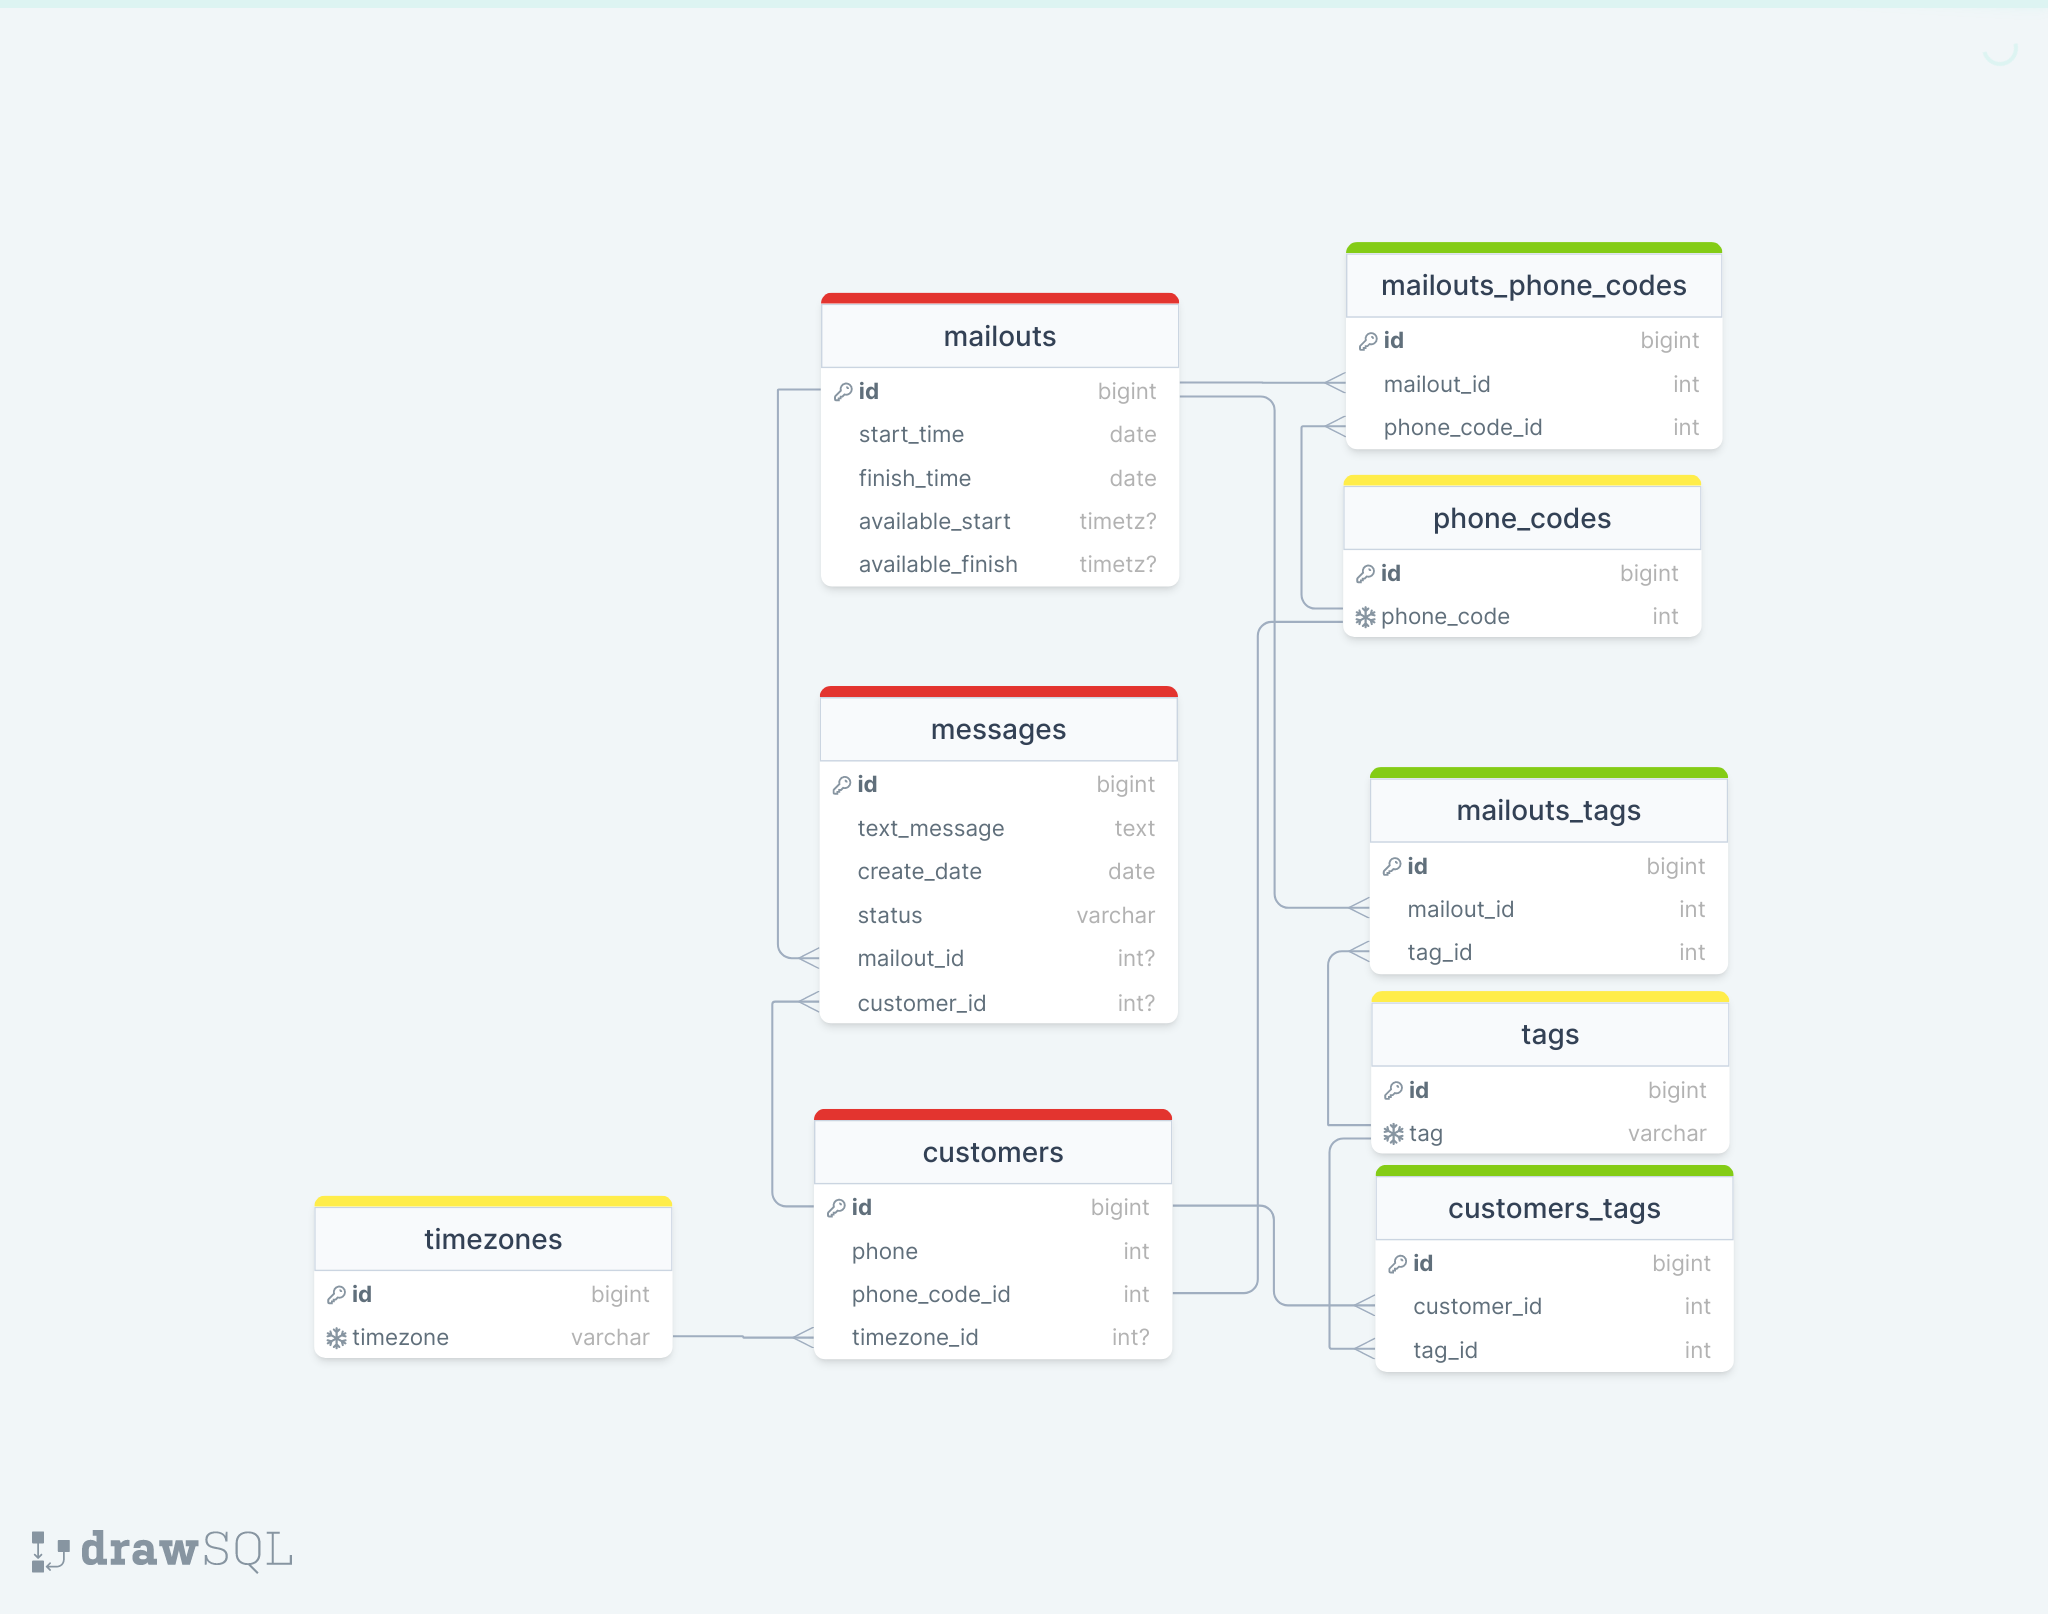
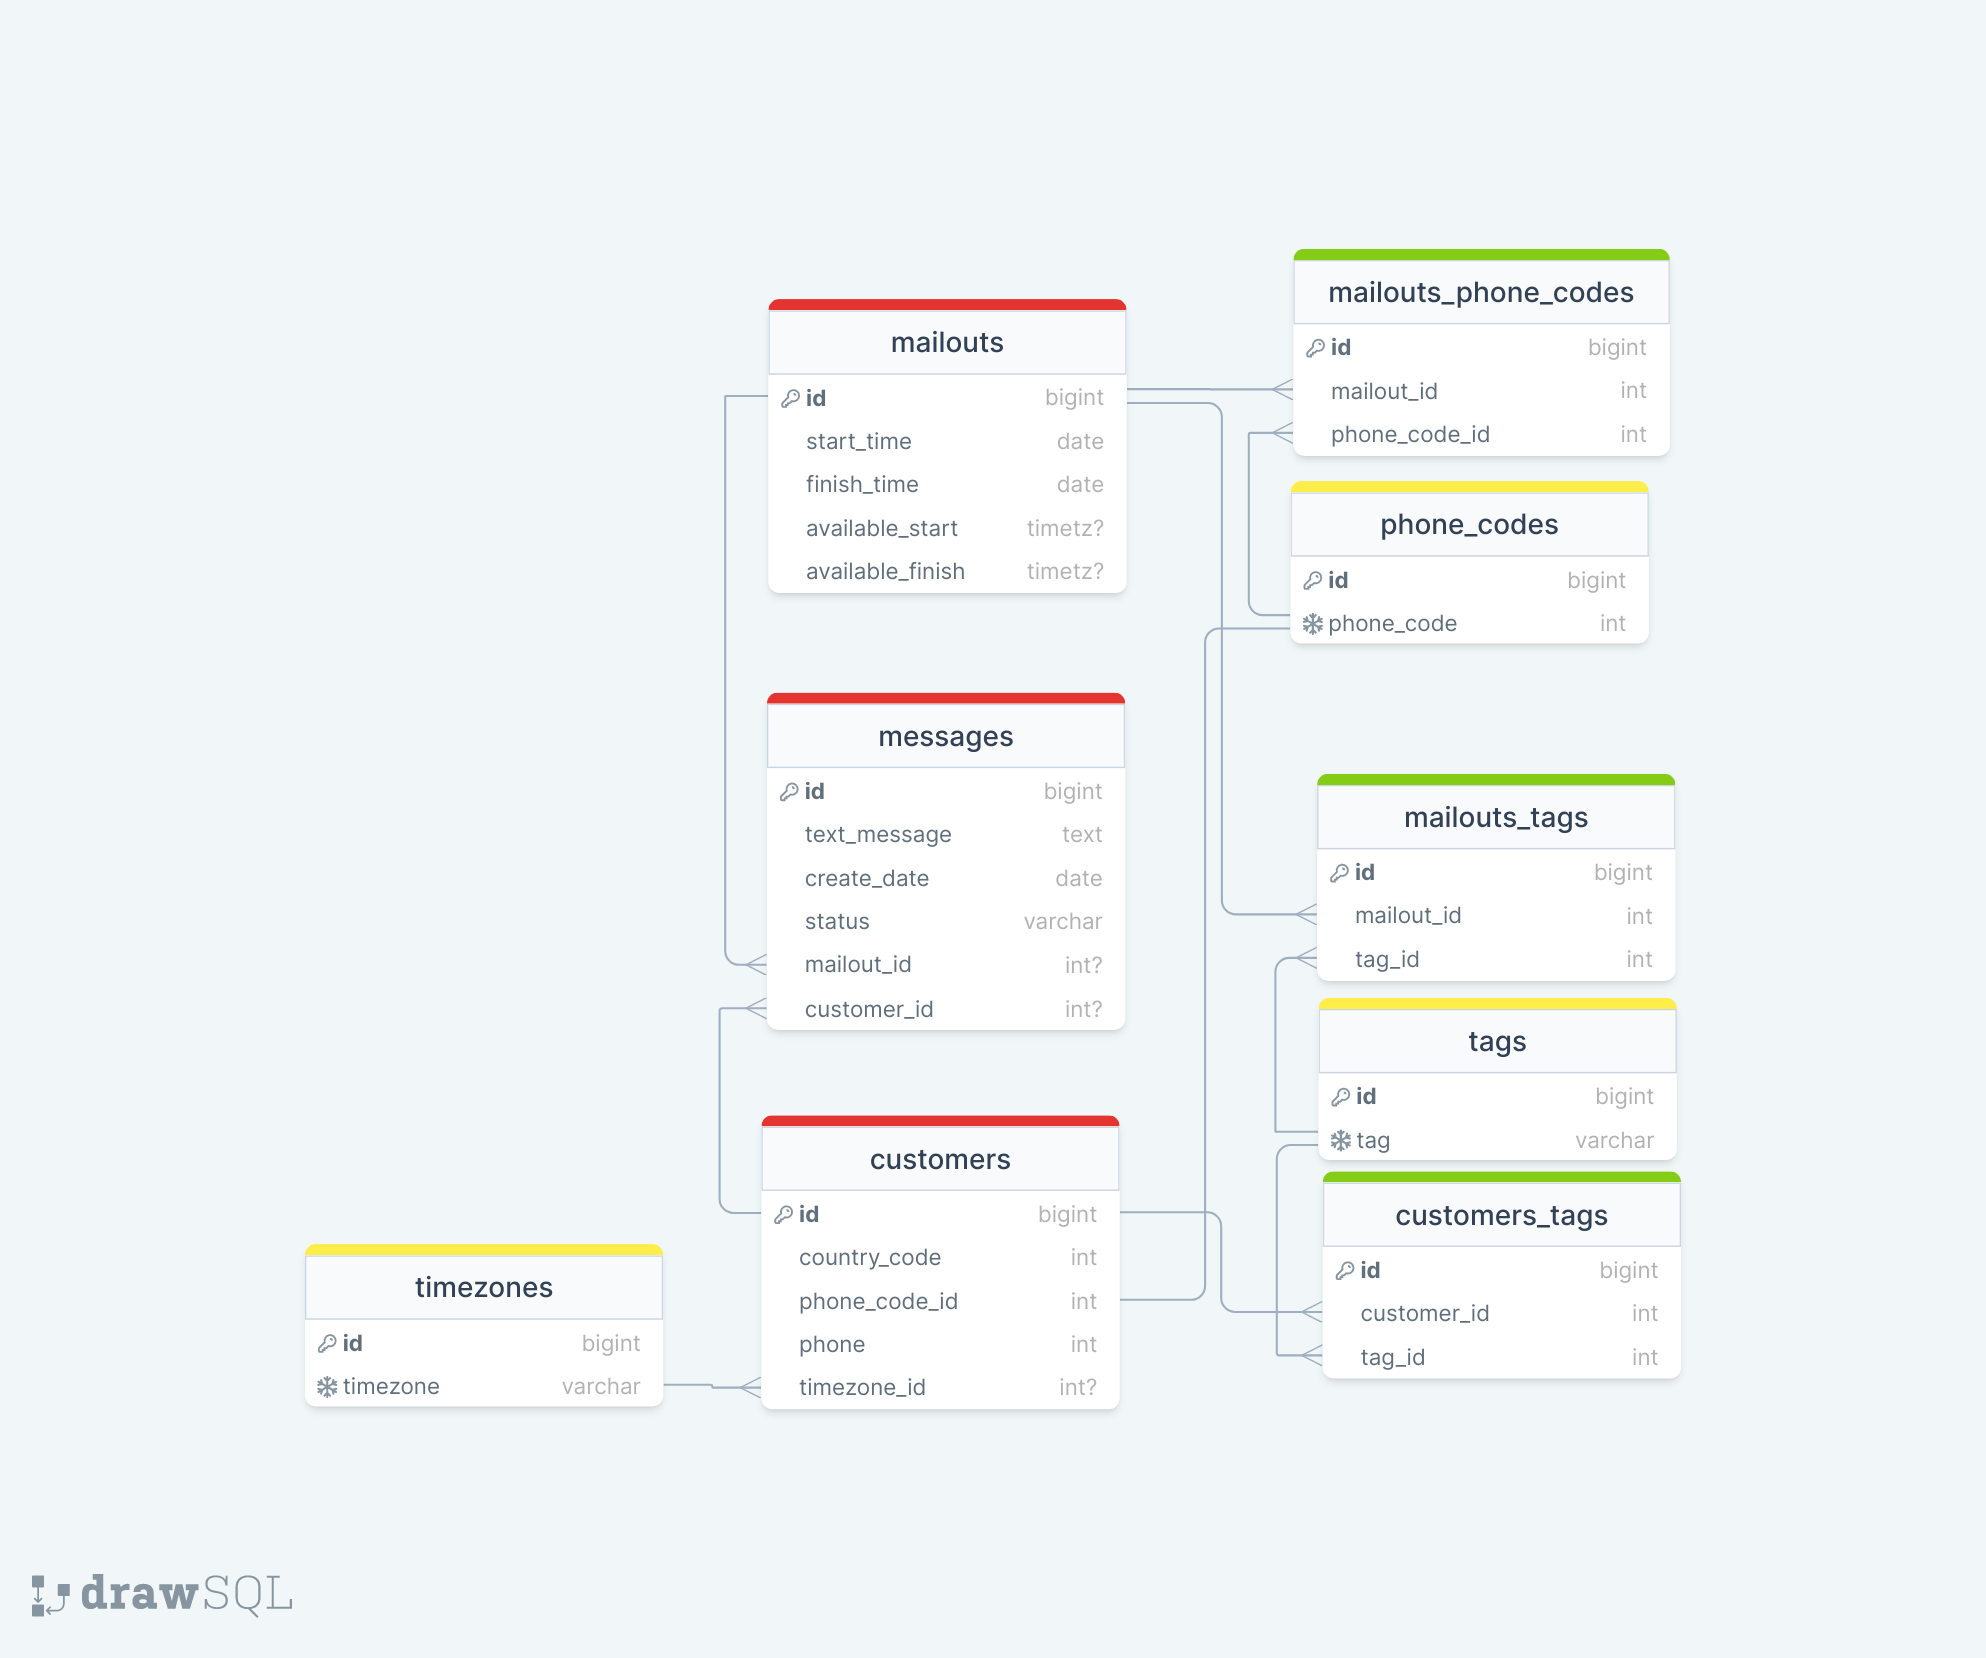
[f] Customer fields

diff --git a/mailing_service/api/main.py b/mailing_service/api/main.py
@@ -20,11 +20,11 @@ app.include_router(timezones.router, prefix=settings.api_prefix, tags=['Timezone
 app.include_router(customers.router, prefix=settings.api_prefix, tags=['Customers'])
 
 
-# @app.on_event('startup')
-# async def init_tables():
-#     SQLModel.metadata.drop_all(engine)
-#     SQLModel.metadata.create_all(engine)
-#     add_sample_data()
+@app.on_event('startup')
+async def init_tables():
+    SQLModel.metadata.drop_all(engine)
+    SQLModel.metadata.create_all(engine)
+    add_sample_data()
 
 
 @app.get('/')
@@ -32,5 +32,5 @@ async def root():
     return {'Say': 'Hello!'}
 
 
-# if __name__ == '__main__':
-#     init_tables()
+if __name__ == '__main__':
+    init_tables()

diff --git a/mailing_service/api/schemas/customers.py b/mailing_service/api/schemas/customers.py
@@ -13,15 +13,17 @@ if TYPE_CHECKING:
 
 
 class CustomerBase(SQLModel):
-    phone: str
+    country_code: int = Field(default=7)
     phone_code_id: int | None = Field(default=None, foreign_key='phone_codes.id')
+    phone: int
     timezone_id: int | None = Field(default=1, foreign_key='timezones.id')
 
     class Config:
         schema_extra = {
             "example": {
-                "phone": "79251234567",
+                "country_code": 7,
                 "phone_code_id": 1,
+                "phone": "1234567",
                 "timezone_id": 1
             }
         }

diff --git a/mailing_service/api/db/sample_data.py b/mailing_service/api/db/sample_data.py
@@ -90,7 +90,10 @@ def add_sample_data():
         print(tag1)
 
         customer1 = Customer.from_orm(
-            CustomerCreate(phone='79251234567'),
+            CustomerCreate(
+                country_code=7,
+                phone=1234567,
+            ),
             update={
                 'phone_code_id': phone_code1.id,
                 'timezone_id': timezone.id,
